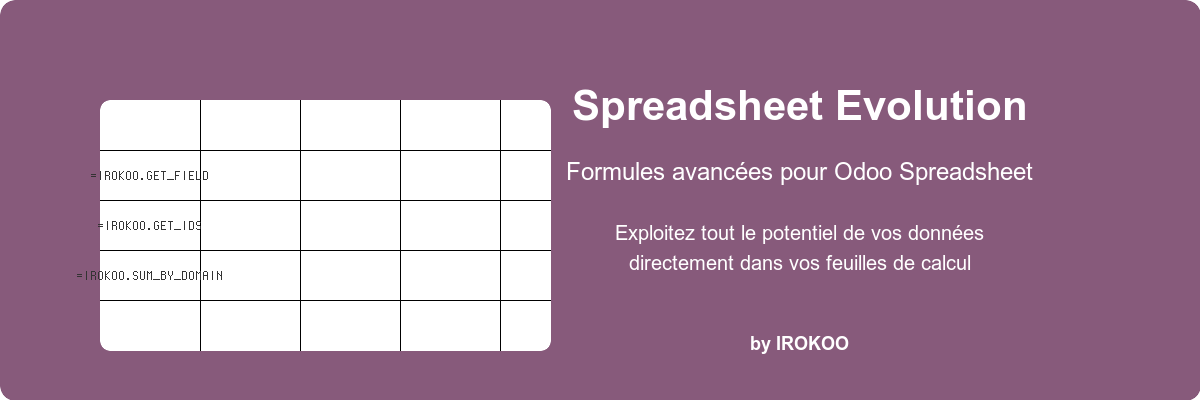
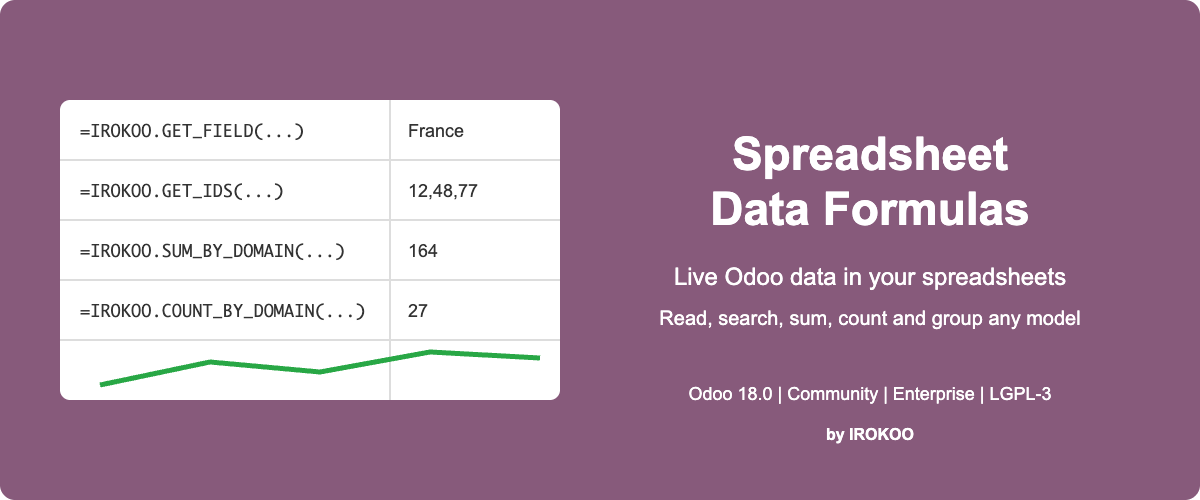
[IMP] spreadsheet_extension: Odoo Apps listing (name, summary, images, description)

diff --git a/spreadsheet_extension/static/description/index.html b/spreadsheet_extension/static/description/index.html
@@ -1,26 +1,77 @@
 <section class="oe_container">
-    <div class="oe_row oe_spaced">
-        <h2 class="oe_slogan" style="color:#875A7B;">Formules Avancées pour Odoo Spreadsheet</h2>
-        <h3 class="oe_slogan">Exploitez pleinement vos données Odoo dans les spreadsheets</h3>
-        <div class="oe_demo oe_picture oe_screenshot">
-            <img src="banner.png">
+    <div class="oe_row oe_spaced text-center">
+        <h2 class="oe_slogan" style="color:#875A7B; font-size:2.4em; font-weight:700;">Spreadsheet Data Formulas</h2>
+        <h3 class="oe_slogan">Live Odoo data in your spreadsheets, one formula at a time</h3>
+        <p class="text-center" style="max-width:760px; margin:0 auto 16px;">
+            <b>Spreadsheet Data Formulas</b> pulls live Odoo data into spreadsheets and dashboards with
+            formulas: read a field, search records, then sum, count or group any model by filter.
+        </p>
+        <p class="text-center" style="max-width:760px; margin:0 auto 24px;">
+            A dashboard often needs one figure that no pivot or list gives directly: the name of a given
+            record, the total of a filtered set, the top groups of a model. Instead of exporting data and
+            pasting it into a sheet, type a formula in a cell: the value is read from Odoo when the
+            spreadsheet opens.
+        </p>
+        <div class="text-center">
+            <img class="img-fluid mx-auto d-block" src="main_screenshot.png"
+                 alt="Demo dashboard with the six IROKOO formulas and their results"
+                 style="max-width:100%; margin:0 auto; border:1px solid #ddd; border-radius:6px;">
         </div>
     </div>
 </section>
 
 <section class="oe_container oe_dark">
     <div class="oe_row oe_spaced">
-        <h2 class="oe_slogan" style="color:#875A7B;">Fonctionnalités</h2>
-        <div class="oe_span6">
-            <div class="oe_demo oe_picture oe_screenshot">
-                <img src="documentation/feature1.png">
-            </div>
+        <h3 class="oe_slogan">Key Features</h3>
+        <div class="oe_span12">
+            <table class="table table-sm" style="background:white;">
+                <tr><th>Formula</th><th>Returns</th></tr>
+                <tr><td><code>IROKOO.GET_FIELD(model, id, field)</code></td><td>The value of a field of one record</td></tr>
+                <tr><td><code>IROKOO.GET_IDS(model, order, direction, limit, filters)</code></td><td>The IDs of the matching records, comma-separated, sorted and limited</td></tr>
+                <tr><td><code>IROKOO.GET_SUM(model, field, ids)</code></td><td>The sum of a field over a list of IDs, for example the result of <code>GET_IDS</code></td></tr>
+                <tr><td><code>IROKOO.GET_GROUPED_IDS(model, group_by, field, function, filters, limit)</code></td><td>The values of the groups, ordered by their aggregate (sum, avg, count, min or max)</td></tr>
+                <tr><td><code>IROKOO.SUM_BY_DOMAIN(model, field, filters)</code></td><td>The sum of a field over the matching records</td></tr>
+                <tr><td><code>IROKOO.COUNT_BY_DOMAIN(model, filters)</code></td><td>The number of matching records</td></tr>
+            </table>
+            <ul class="list-unstyled">
+                <li><i class="fa fa-check text-primary"></i> Works on any model and any field, standard or custom</li>
+                <li><i class="fa fa-check text-primary"></i> Formulas can be nested: <code>GET_FIELD</code> on the ID returned by <code>GET_IDS</code>, <code>GET_SUM</code> on a cell holding IDs</li>
+                <li><i class="fa fa-check text-primary"></i> Arguments come from other cells, so a filter can follow a value typed in the sheet</li>
+                <li><i class="fa fa-check text-primary"></i> Argument help in the formula assistant, like the built-in functions</li>
+            </ul>
         </div>
-        <div class="oe_span6">
-            <p class="oe_mt32">
-                <strong>Accès direct aux données Odoo</strong><br/>
-                Récupérez facilement des valeurs, des listes d'IDs, calculez des sommes ou effectuez des regroupements
-                directement dans vos feuilles de calcul sans aucun export.
+    </div>
+</section>
+
+<section class="oe_container">
+    <div class="oe_row oe_spaced">
+        <h3 class="oe_slogan">Filters</h3>
+        <div class="oe_span12">
+            <p class="text-center">Filters are separated by semicolons, for example <code>partner_id=42;state:in:draft,sent</code>.</p>
+            <table class="table table-sm">
+                <tr><th>Syntax</th><th>Meaning</th></tr>
+                <tr><td><code>field=value</code></td><td>Equal (a value with <code>%</code> becomes a case-insensitive search)</td></tr>
+                <tr><td><code>field&gt;value</code>, <code>field&lt;value</code>, <code>field!=value</code></td><td>Comparisons</td></tr>
+                <tr><td><code>field~value</code></td><td>Contains, case-insensitive</td></tr>
+                <tr><td><code>field:operator:value</code></td><td>Any Odoo domain operator, for example <code>name:ilike:test</code></td></tr>
+                <tr><td><code>field:in:value1,value2</code></td><td>One of several values</td></tr>
+            </table>
+        </div>
+    </div>
+</section>
+
+<section class="oe_container oe_dark">
+    <div class="oe_row oe_spaced">
+        <h3 class="oe_slogan">Getting started</h3>
+        <div class="oe_span12">
+            <ol style="max-width:720px; margin:0 auto;">
+                <li>Install the module.</li>
+                <li>Open a spreadsheet, for example a dashboard of the Dashboards app.</li>
+                <li>Type a formula in a cell, for example <code>=IROKOO.COUNT_BY_DOMAIN("res.partner", "city=Lille")</code>.</li>
+                <li>With demo data, open <b>Dashboards &gt; IROKOO formulas examples</b>: one example per formula, with its result.</li>
+            </ol>
+            <p class="text-center" style="margin-top:1em;">
+                <a href="documentation/spreadsheet_formulas.pdf"><i class="fa fa-file-pdf-o"></i> Formula reference (PDF, French)</a>
             </p>
         </div>
     </div>
@@ -28,69 +79,44 @@
 
 <section class="oe_container">
     <div class="oe_row oe_spaced">
-        <div class="oe_span6">
-            <p class="oe_mt32">
-                <strong>Filtres puissants et flexibles</strong><br/>
-                Créez des tableaux de bord dynamiques avec des filtres sophistiqués. 
-                Utilisez des opérateurs de comparaison, des recherches multicritères, et 
-                même des opérateurs "in" pour filtrer sur des ensembles de valeurs.
-            </p>
-        </div>
-        <div class="oe_span6">
-            <div class="oe_demo oe_picture oe_screenshot">
-                <img src="documentation/feature2.png">
-            </div>
+        <h3 class="oe_slogan">Compatibility</h3>
+        <div class="oe_span12">
+            <ul class="list-unstyled" style="max-width:720px; margin:0 auto;">
+                <li><i class="fa fa-check text-primary"></i> Odoo 18.0, Community and Enterprise</li>
+                <li><i class="fa fa-check text-primary"></i> Depends on <code>spreadsheet</code> and <code>spreadsheet_dashboard</code></li>
+                <li><i class="fa fa-check text-primary"></i> No Python dependency, no external service: the formulas read the data of your Odoo</li>
+            </ul>
         </div>
     </div>
 </section>
 
 <section class="oe_container oe_dark">
     <div class="oe_row oe_spaced">
-        <h2 class="oe_slogan" style="color:#875A7B;">Liste des formules</h2>
-        <div class="oe_span12">
-            <div class="oe_demo oe_picture oe_screenshot">
-                <ul>
-                    <li><strong>IROKOO.GET_FIELD</strong> - Récupère la valeur d'un champ pour un enregistrement</li>
-                    <li><strong>IROKOO.GET_IDS</strong> - Obtient les IDs correspondant à des critères</li>
-                    <li><strong>IROKOO.GET_SUM</strong> - Calcule la somme d'un champ pour une liste d'IDs</li>
-                    <li><strong>IROKOO.GET_GROUPED_IDS</strong> - Regroupe les enregistrements par un champ</li>
-                    <li><strong>IROKOO.SUM_BY_DOMAIN</strong> - Calcule directement une somme avec un domaine</li>
-                </ul>
-            </div>
+        <h3 class="oe_slogan">FAQ</h3>
+        <div class="oe_span12" style="max-width:760px; margin:0 auto;">
+            <p><b>Can a user see data he is not allowed to read?</b><br/>
+                No. The formulas read the data with the access rights of the user who opens the
+                spreadsheet: record rules filter the results, and a model he may not read returns an
+                error instead of data.</p>
+            <p><b>Which names do the formulas expect?</b><br/>
+                Technical names: <code>sale.order</code> for the model, <code>amount_total</code> for the
+                field. They are shown in developer mode.</p>
+            <p><b>What does IROKOO.GET_GROUPED_IDS return?</b><br/>
+                The values of the groups (for example the partner IDs), sorted by their aggregate, highest
+                first. The aggregated amounts themselves come from <code>SUM_BY_DOMAIN</code> or
+                <code>COUNT_BY_DOMAIN</code> on each group.</p>
+            <p><b>How do I build a filter from a cell?</b><br/>
+                Concatenate in an intermediate cell, for example <code>="partner_id="&amp;B1</code>, and
+                pass that cell as the filter.</p>
         </div>
     </div>
 </section>
 
 <section class="oe_container">
     <div class="oe_row oe_spaced">
-        <h2 class="oe_slogan" style="color:#875A7B;">Documentation complète</h2>
-        <div class="oe_span12">
-            <p class="oe_mt32 text-center">
-                Une documentation complète est disponible <a href="https://github.com/irokoo/spreadsheet_evolution/">sur GitHub</a>
-                ou dans le fichier README.md du module.
-            </p>
+        <div class="alert alert-info text-center">
+            <p>This module is provided for educational purposes, without official support.</p>
+            <p>Questions and feedback: <a href="mailto:info@irokoo.fr">info@irokoo.fr</a></p>
         </div>
     </div>
 </section>
-
-<section class="oe_container oe_separator">
-</section>
-
-<section class="oe_container oe_dark">
-    <div class="oe_row oe_spaced">
-        <div class="oe_span6">
-            <h2 class="oe_slogan" style="color:#875A7B; text-align: left;">Support</h2>
-            <p class="oe_mt32">
-                Pour toute question ou support, contactez l'équipe IROKOO à l'adresse suivante :
-                <a href="mailto:info@irokoo.fr">info@irokoo.fr</a>
-            </p>
-        </div>
-        <div class="oe_span6">
-            <div class="oe_demo oe_picture oe_screenshot">
-                <a href="https://www.irokoo.fr">
-                    <img src="icon.png" width="200" height="200">
-                </a>
-            </div>
-        </div>
-    </div>
-</section> 

diff --git a/spreadsheet_extension/__manifest__.py b/spreadsheet_extension/__manifest__.py
@@ -1,23 +1,19 @@
 {
-    "name": "Spreadsheet Extension",
+    "name": 'Spreadsheet Data Formulas',
+    "summary": 'Pull live Odoo data into spreadsheets and dashboards with formulas: read a field, search records, then sum, count or group any model by filter.',
+    "images": [
+        'static/description/banner.png',
+        'static/description/main_screenshot.png',
+    ],
     "author": "Sylvain Boutet",
     "website": "http://www.chti-tech.eu",
     "category": "Tools",
-    "version": "18.0.0.1.2",
+    "version": "18.0.0.1.3",
     "description": """
-Educational module that extends Odoo spreadsheets with custom formulas.
-
-Warning: this module is provided for educational purposes only.
-No official support is provided by the author.
-
-Features:
-
-- IROKOO.GET_FIELD formula to access field values
-- IROKOO.GET_IDS formula to search records
-- IROKOO.GET_SUM formula to compute sums
-- IROKOO.GET_GROUPED_IDS formula for groupings
-
-See README.md and EXAMPLES.md for the complete documentation.
+Adds IROKOO.* formulas to Odoo spreadsheets: read a field of a record, search
+record IDs, sum, count or group the records of any model matching filters. The
+formulas run with the access rights of the user who opens the spreadsheet.
+Provided for educational purposes, without official support.
 """,
     "license": "LGPL-3",
     "depends": [

diff --git a/README.md b/README.md
@@ -1,4 +1,10 @@
-# Documentation des formules Odoo Spreadsheet IROKOO
+# Spreadsheet Data Formulas (Odoo 18.0)
+
+Pull live Odoo data into spreadsheets and dashboards with formulas: read a field, search records, then sum, count or group any model by filter.
+
+Module `spreadsheet_extension`, branch `18.0` for Odoo 18.0, LGPL-3.
+
+## Documentation des formules (français)
 
 ## Introduction
 
